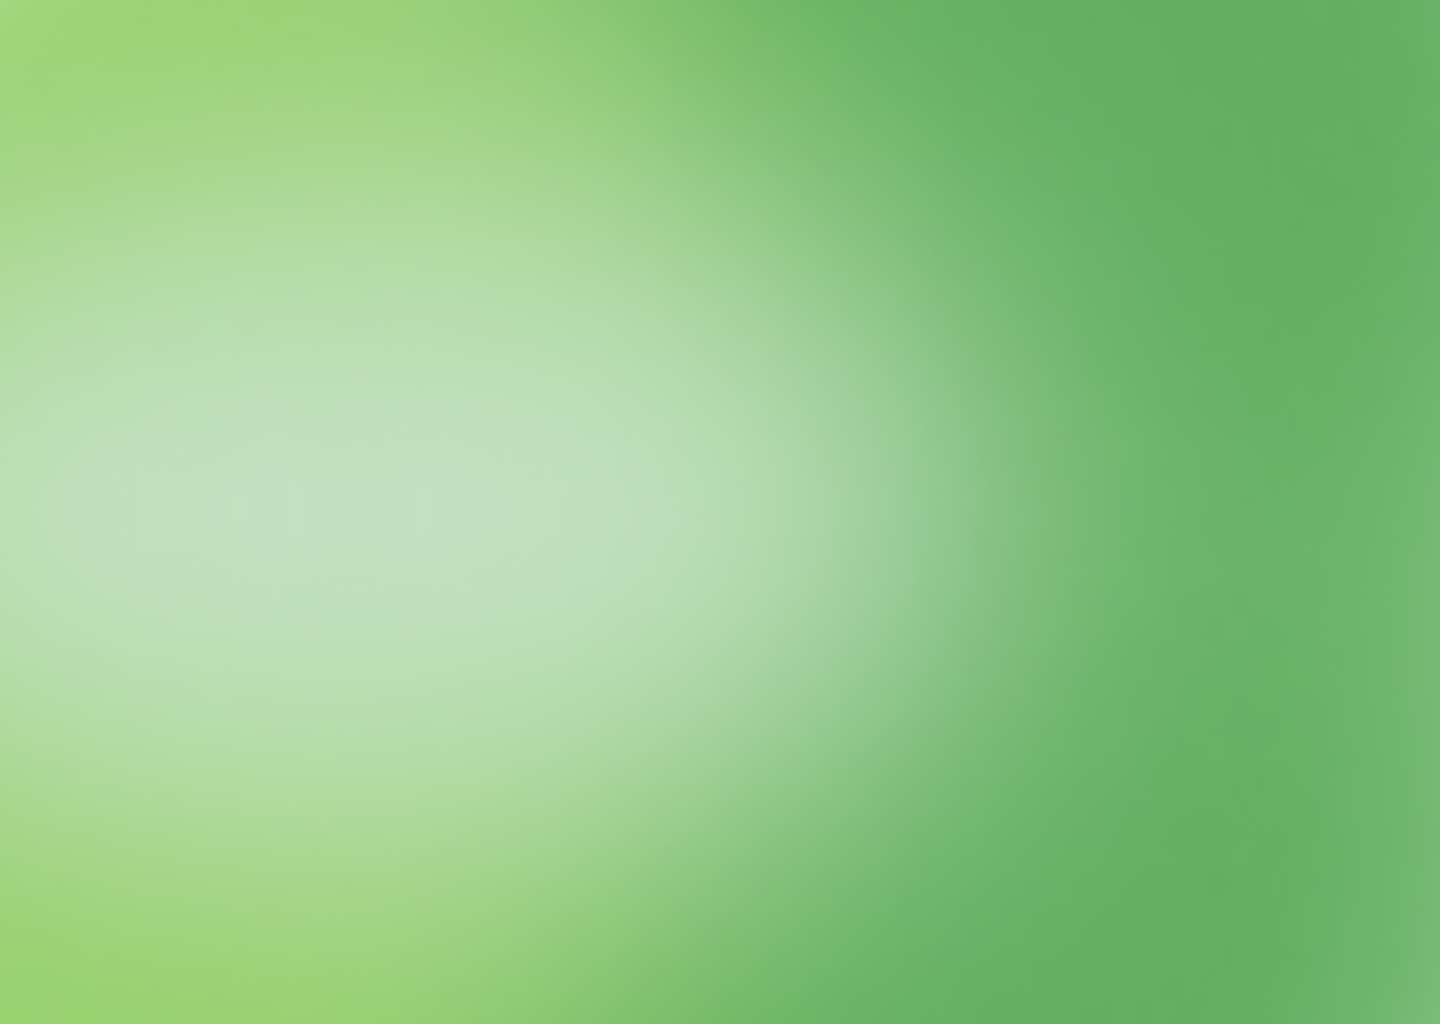
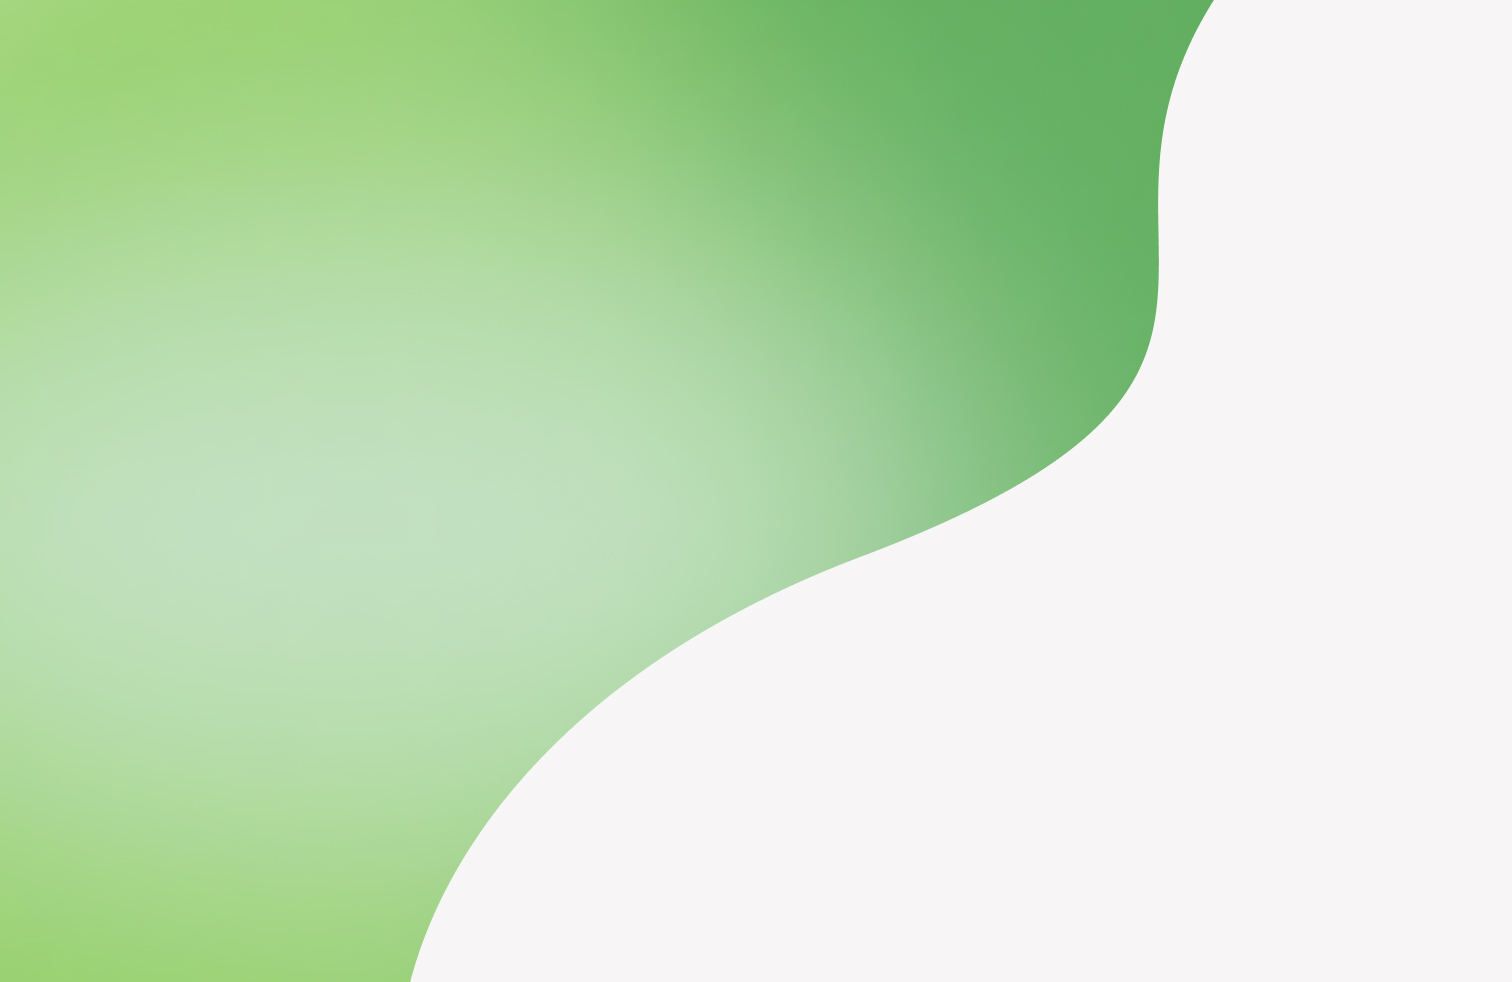
add bg and hero image

diff --git a/src/App.js b/src/App.js
@@ -3,8 +3,7 @@ import Navbar from "./Component/Navbar"
 
 function App() {
   return (
-    <div className="bg-main h-screen w-screen">
-      <img src="./assets/bg-shape.jpg" alt=""></img>
+    <div className="bg-cover bg-center bg-main h-screen w-screen">
       <div className="container text-greey">
         <Navbar />
       </div>
